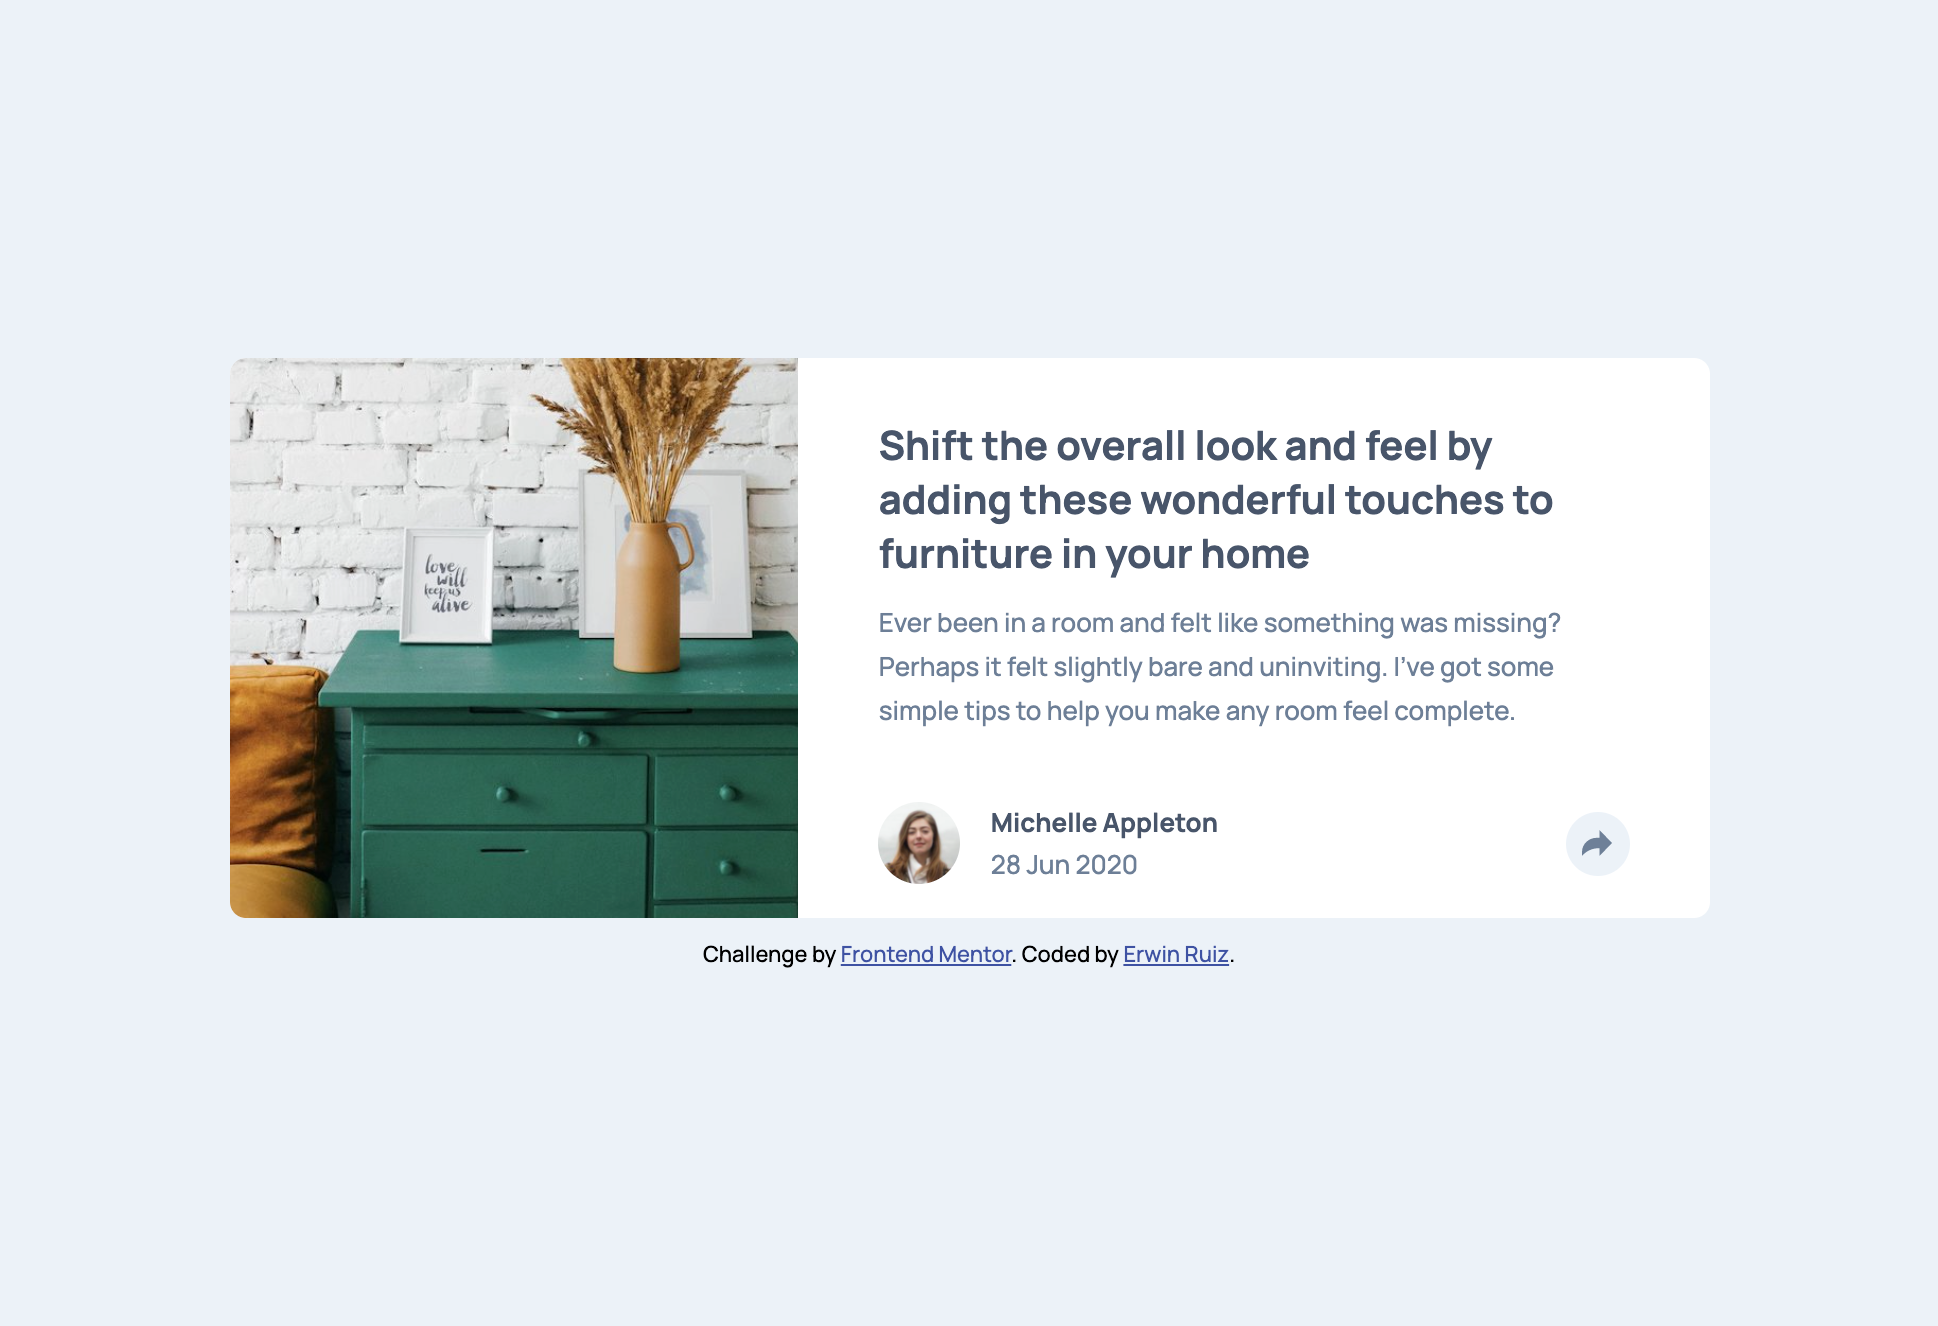
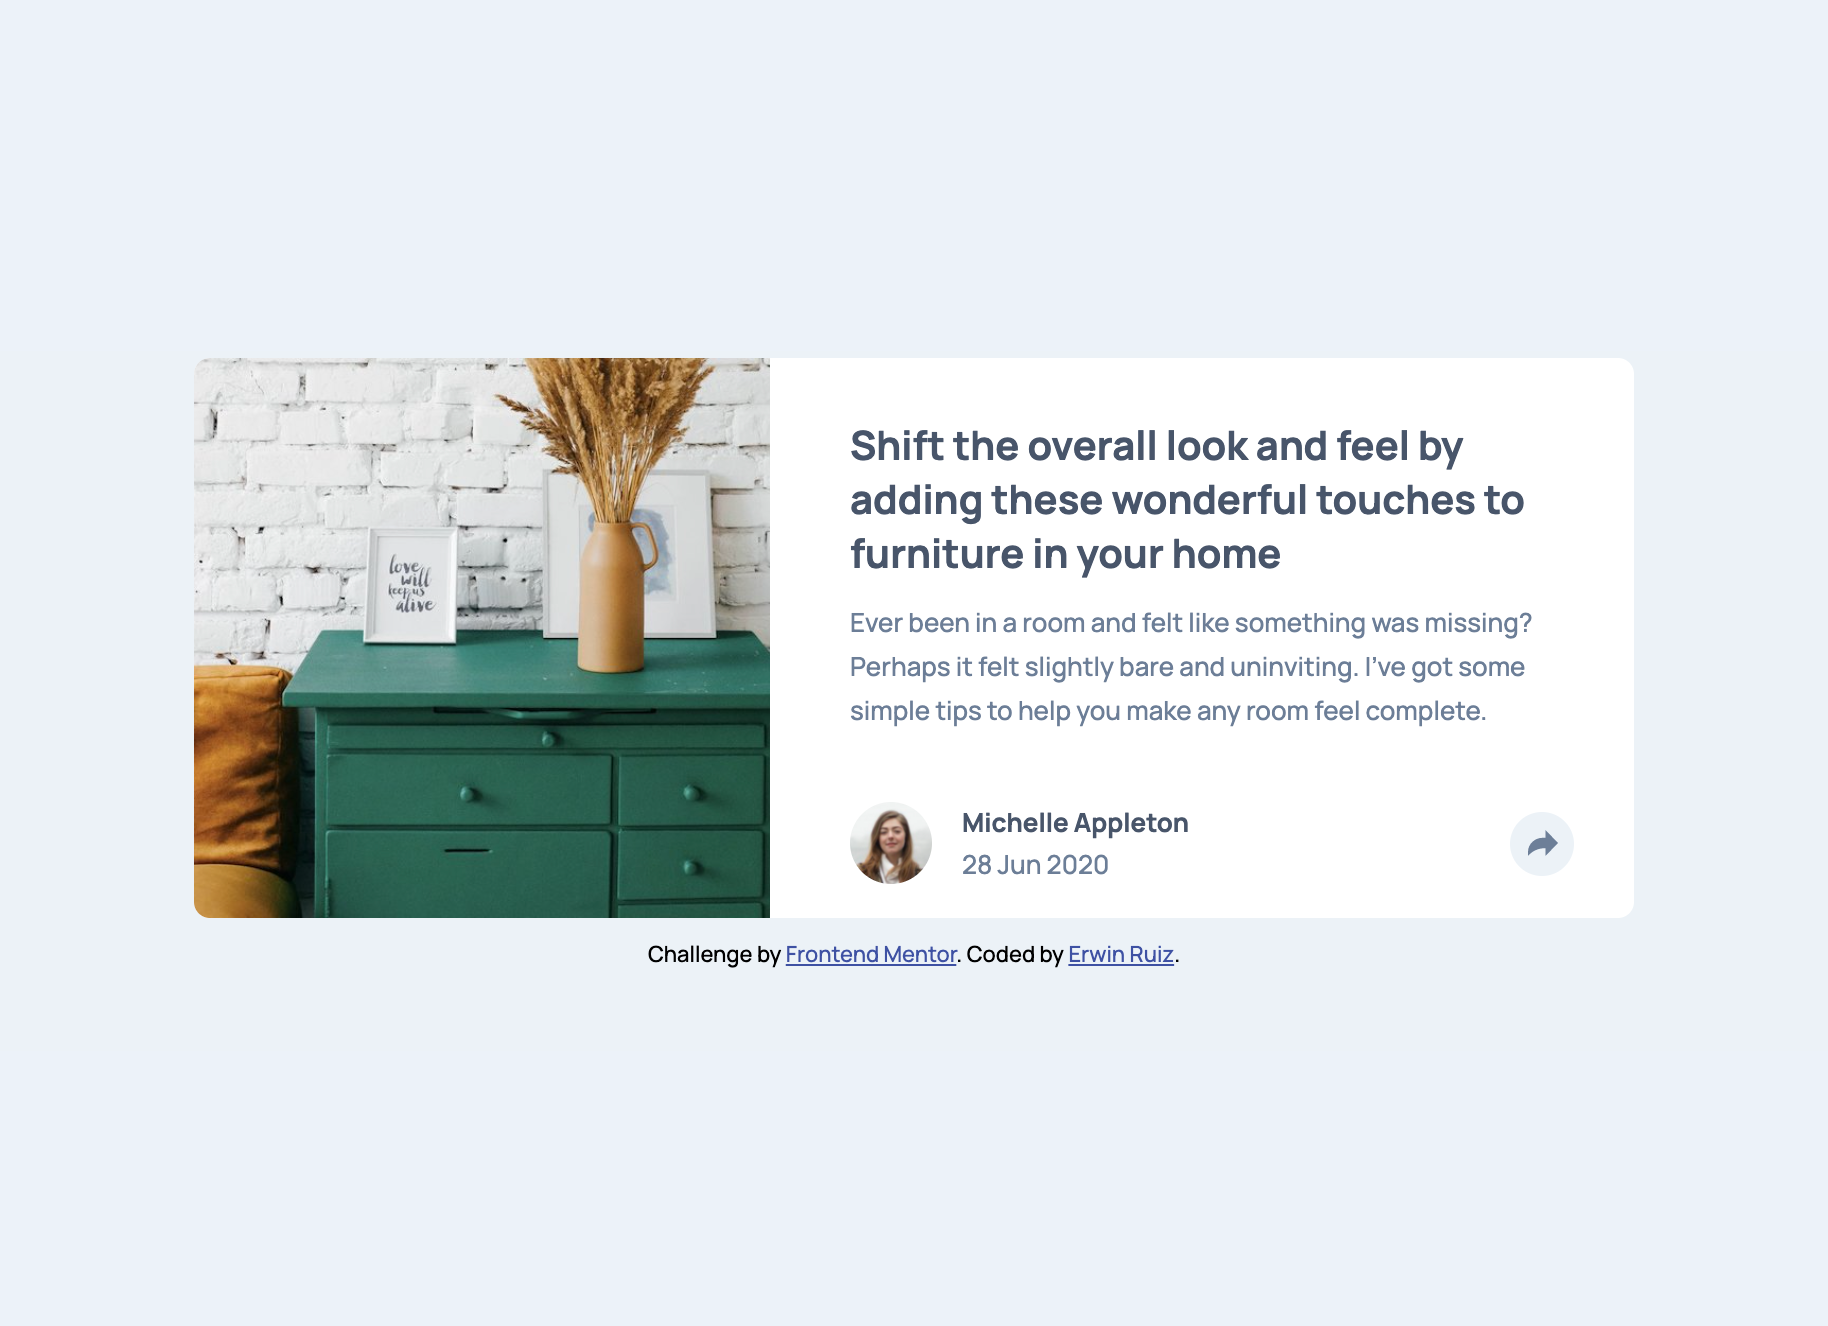
Fix width of section on desktop design

diff --git a/styles.css b/styles.css
@@ -147,13 +147,13 @@ section .modal img:hover {
 
 @media (min-width: 810px) {
   section {
-    width: 740px;
+    width: 720px;
     height: 280px;
     display: flex;
   }
   section .hero {
     height: 100%;
-    width: 38.5%;
+    width: 40%;
     object-position: left;
     border-top-left-radius: 8px;
     border-bottom-left-radius: 8px;
@@ -164,7 +164,7 @@ section .modal img:hover {
     padding: 30px 40px 10px 40px;
   }
   section .details {
-    padding: 0 40px;
+    padding-left: 40px;
   }
   section h1 {
     font-size: 20px;
@@ -174,7 +174,7 @@ section .modal img:hover {
     height: 40px;
     justify-content: center;
     border-radius: 8px;
-    margin-left: 294px;
+    margin-left: 279px;
     margin-top: -40px;
     z-index: 1;
   }
@@ -189,7 +189,7 @@ section .modal img:hover {
     width: 20px;
     background-color: var(--veryDarkGrayishBlue);
     position: absolute;
-    margin-left: 390px;
+    margin-left: 375px;
     margin-top: -15px;
     transform: rotate(45deg);
     display: none;

diff --git a/README.md b/README.md
@@ -39,6 +39,7 @@ Users should be able to:
 - CSS custom properties
 - Flexbox
 - Mobile-first workflow
+- JavaScript
 
 The designs were created to the following widths:
 
